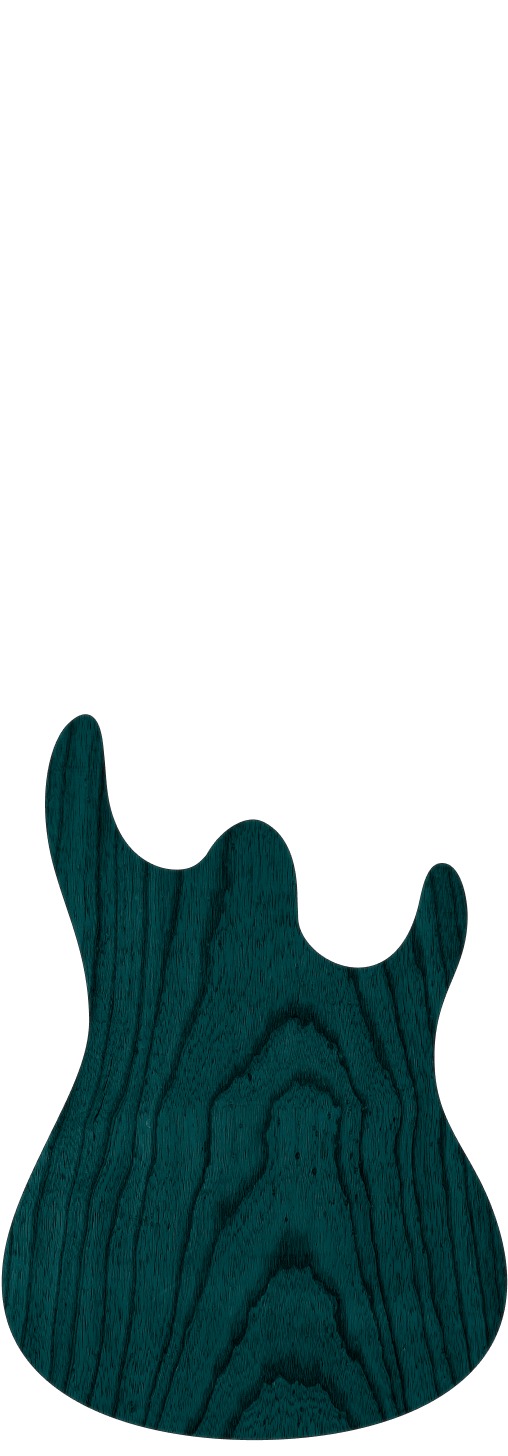
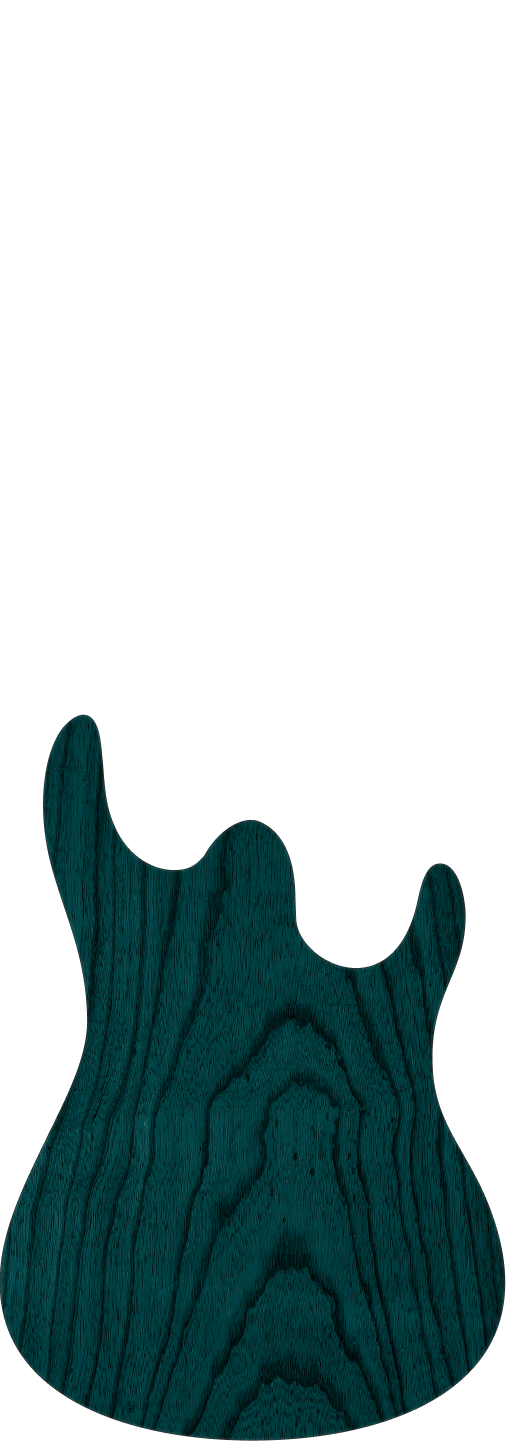
Novos tampos Quilted e Flamed Maple

diff --git a/src/lib/imageMapping.ts b/src/lib/imageMapping.ts
@@ -8,6 +8,7 @@ export const imageMapping = {
   'omni-corpo-paulownia-verde.png': '/images/omni-corpo-paulownia-verde.png',
   'omni-corpo-paulownia-roxo.png': '/images/omni-corpo-paulownia-roxo.png',
   'omni-corpo-paulownia-preto.png': '/images/omni-corpo-paulownia-preto.png',
+  'omni-corpo-paulownia-cinza.png': '/images/omni-corpo-paulownia-cinza.png',
   'omni-corpo-mogno.png': '/images/omni-corpo-mogno.png',
   'omni-corpo-freijo.png': '/images/omni-corpo-freijo.png',
   'omni-corpo-freijo-vermelho.png': '/images/omni-corpo-freijo-vermelho.png',
@@ -23,6 +24,7 @@ export const imageMapping = {
   'omni-corpo-azul.png': '/images/omni-corpo-azul.png',
   'omni-corpo-branco.png': '/images/omni-corpo-branco.png',
   'omni-corpo-preto.png': '/images/omni-corpo-preto.png',
+  'omni-corpo-preto-sparkle.png': '/images/omni-corpo-preto-sparkle.png',
   'omni-corpo-verde.png': '/images/omni-corpo-verde.png',
   'omni-corpo-roxo.png': '/images/omni-corpo-roxo.png',
   'omni-corpo-amarelo.png': '/images/omni-corpo-amarelo.png',
@@ -53,6 +55,31 @@ export const imageMapping = {
   'omni-tampo-buckeye-burl-natural.png': '/images/omni-tampo-buckeye-burl-natural.png',
   'omni-tampo-buckeye-burl-vermelho.png': '/images/omni-tampo-buckeye-burl-vermelho.png',
   'omni-tampo-flamed-maple.png': '/images/omni-tampo-flamed-maple.png',
+  'omni-tampo-flamed-maple-1.png': '/images/omni-tampo-flamed-maple-1.png',
+  'omni-tampo-flamed-maple-azul.png': '/images/omni-tampo-flamed-maple-azul.png',
+  'omni-tampo-flamed-maple-cinza.png': '/images/omni-tampo-flamed-maple-cinza.png',
+  'omni-tampo-flamed-maple-laranja.png': '/images/omni-tampo-flamed-maple-laranja.png',
+  'omni-tampo-flamed-maple-preto.png': '/images/omni-tampo-flamed-maple-preto.png',
+  'omni-tampo-flamed-maple-roxo.png': '/images/omni-tampo-flamed-maple-roxo.png',
+  'omni-tampo-flamed-maple-verde.png': '/images/omni-tampo-flamed-maple-verde.png',
+  'omni-tampo-flamed-maple-vermelho.png': '/images/omni-tampo-flamed-maple-vermelho.png',
+  'omni-tampo-quilted-maple.png': '/images/omni-tampo-quilted-maple.png',
+  'omni-tampo-quilted-maple-azul.png': '/images/omni-tampo-quilted-maple-azul.png',
+  'omni-tampo-quilted-maple-cinza.png': '/images/omni-tampo-quilted-maple-cinza.png',
+  'omni-tampo-quilted-maple-laranja.png': '/images/omni-tampo-quilted-maple-laranja.png',
+  'omni-tampo-quilted-maple-preto.png': '/images/omni-tampo-quilted-maple-preto.png',
+  'omni-tampo-quilted-maple-roxo.png': '/images/omni-tampo-quilted-maple-roxo.png',
+  'omni-tampo-quilted-maple-roxo-1.png': '/images/omni-tampo-quilted-maple-roxo-1.png',
+  'omni-tampo-quilted-maple-verde.png': '/images/omni-tampo-quilted-maple-verde.png',
+  'omni-tampo-quilted-maple-vermelho.png': '/images/omni-tampo-quilted-maple-vermelho.png',
+  'omni-tampo-maple-burl.png': '/images/omni-tampo-maple-burl.png',
+  'omni-tampo-maple-burl-amarelo.png': '/images/omni-tampo-maple-burl-amarelo.png',
+  'omni-tampo-maple-burl-azul.png': '/images/omni-tampo-maple-burl-azul.png',
+  'omni-tampo-maple-burl-preto.png': '/images/omni-tampo-maple-burl-preto.png',
+  'omni-tampo-maple-burl-vermelho.png': '/images/omni-tampo-maple-burl-vermelho.png',
+  'omni-tampo-golden camphor.png': '/images/omni-tampo-golden camphor.png',
+  'omni-tampo-hibrido.png': '/images/omni-tampo-hibrido.png',
+  'omni-tampo-koa.png': '/images/omni-tampo-koa.png',
   'omni-tampo-burst-preto.png': '/images/omni-tampo-burst-preto.png',
   'omni-tampo-mun-ebony.png': '/images/omni-tampo-mun-ebony.png',
   
@@ -75,8 +102,11 @@ export const imageMapping = {
   'omni-braco-inlays-constelacoes-preto.png': '/images/omni-braco-inlays-constelacoes-preto.png',
   'omni-braco-inlays-constelacoes-branco.png': '/images/omni-braco-inlays-constelacoes-branco.png',
   'omni-cordas-6.png': '/images/omni-cordas-6.png',
+  
+  // Lighting
   'omni-lighting-luz-corpo.png': '/images/omni-lighting-luz-corpo.png',
   'omni-lighting-sombra-corpo.png': '/images/omni-lighting-sombra-corpo.png',
+  'omni-lighting-corpo.png': '/images/omni-lighting-corpo.png',
   
   // Branding
   'logo-pluria-white.svg': '/images/logo-pluria-white.svg'
